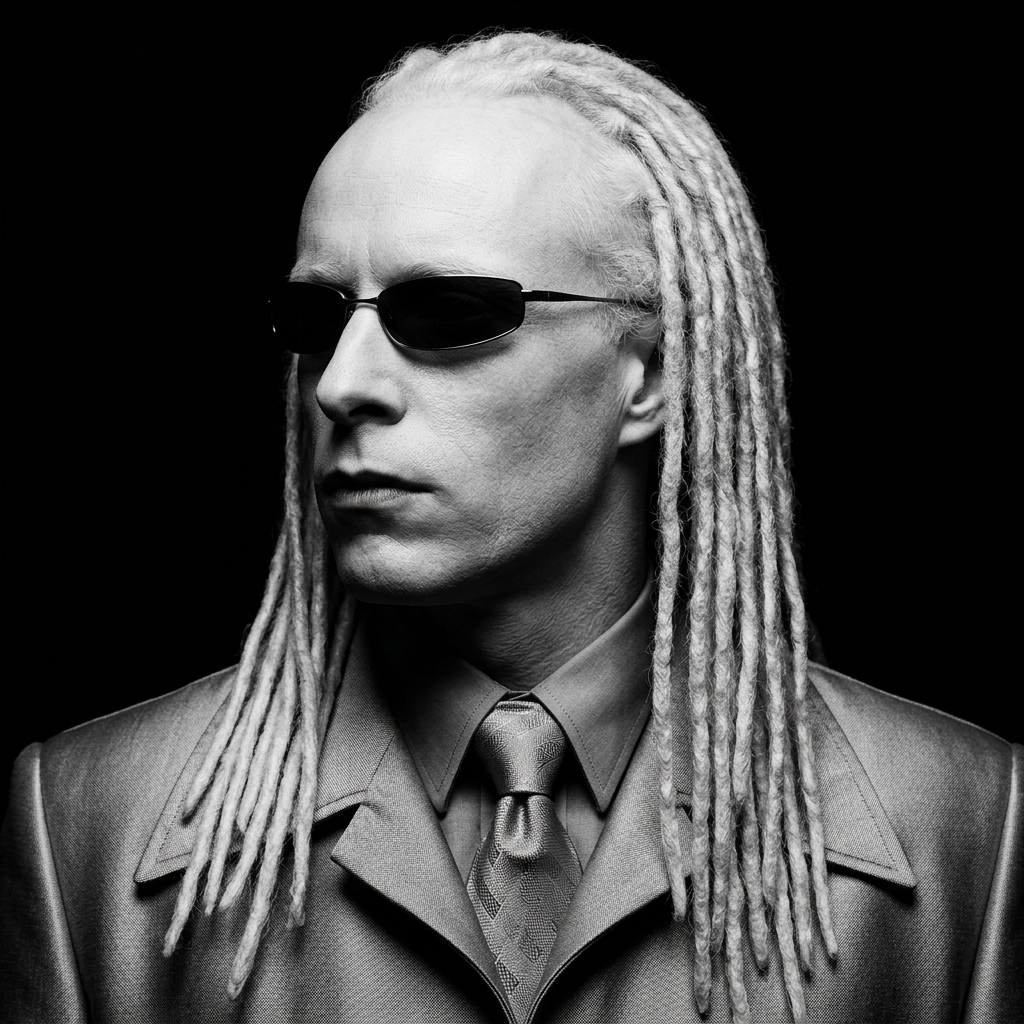
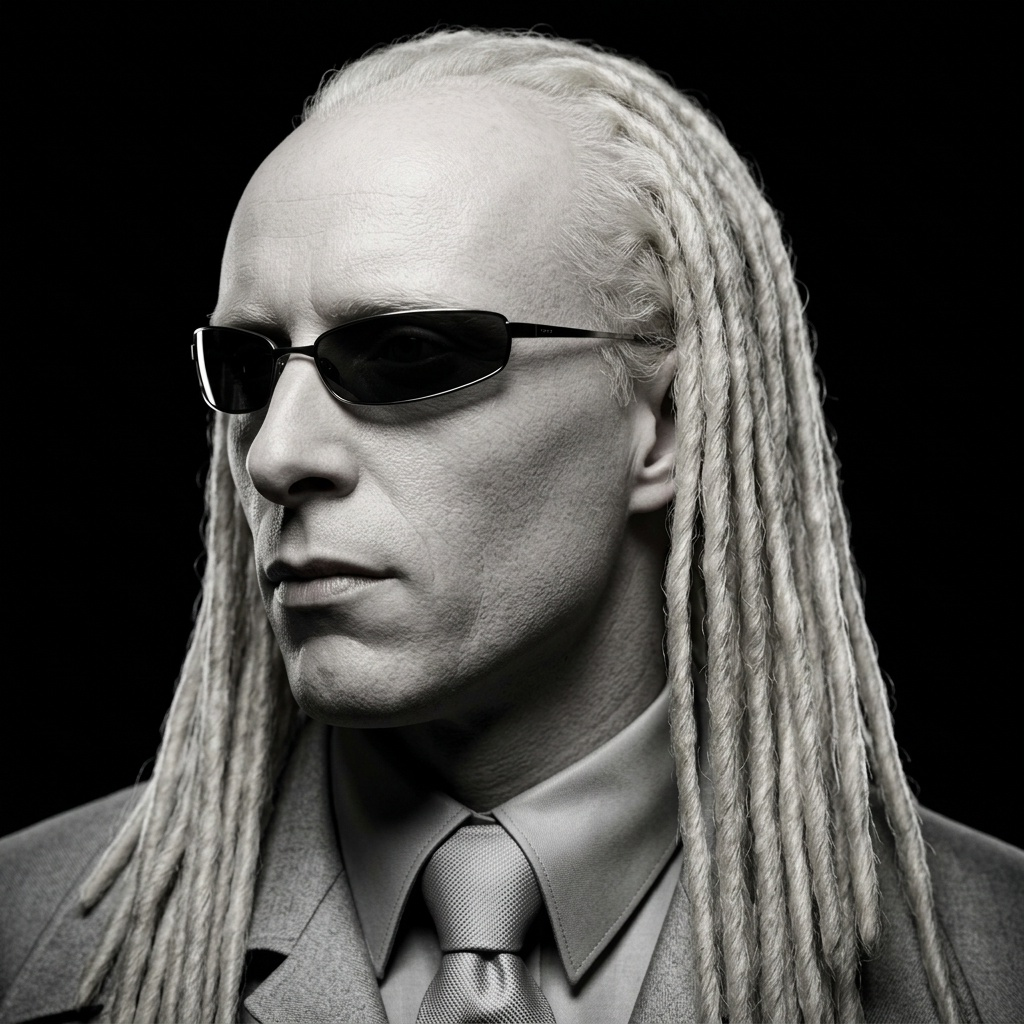
Auto-deploy: Preparando para producción en VPS

diff --git a/src/app/inframundo/page.tsx b/src/app/inframundo/page.tsx
@@ -173,43 +173,57 @@ export default function InframundoPage() {
           {VILLANOS.map((v) => {
             const isLeft = v.side === "left";
 
-            // Componente Lottie
+            // Componente Lottie (con contención de desborde y escala adecuada)
             const lottieNode = (
               <div
                 key="lottie"
                 style={{
-                  width: "105px",
-                  height: "105px",
+                  width: "90px",
+                  height: "90px",
+                  minWidth: "90px",
                   flexShrink: 0,
                   display: "flex",
                   alignItems: "center",
                   justifyContent: "center",
-                  background: "rgba(0, 20, 50, 0.4)",
-                  borderRadius: "10px",
+                  background: "rgba(0, 20, 50, 0.45)",
+                  borderRadius: "12px",
                   padding: "6px",
                   border: `1px solid ${v.color}22`,
+                  overflow: "hidden",
+                  position: "relative",
                 }}
               >
-                <div style={{ width: "100%", height: "100%" }}>
+                <div style={{
+                  width: "100%",
+                  height: "100%",
+                  transform: v.id === "whatsapp" ? "scale(0.82)" : "scale(1)",
+                  display: "flex",
+                  alignItems: "center",
+                  justifyContent: "center",
+                }}>
                   <VibeLottie url={v.lottie} />
                 </div>
               </div>
             );
 
-            // Componente Avatar del Villano
+            // Componente Avatar del Villano (CIRCULAR como los Awakened Heroes)
             const avatarNode = (
               <div
                 key="avatar"
                 style={{
-                  width: "105px",
-                  height: "105px",
+                  width: "82px",
+                  height: "82px",
+                  minWidth: "82px",
                   flexShrink: 0,
-                  borderRadius: "10px",
+                  borderRadius: "50%",
                   overflow: "hidden",
-                  border: `2px solid ${v.color}88`,
-                  boxShadow: `0 0 25px ${v.color}44, inset 0 0 15px rgba(0,0,0,0.8)`,
+                  border: `2px solid ${v.color}`,
+                  boxShadow: `0 0 20px ${v.color}66, inset 0 0 10px rgba(0,0,0,0.8)`,
                   position: "relative",
                   background: "#000",
+                  display: "flex",
+                  alignItems: "center",
+                  justifyContent: "center",
                 }}
               >
                 <img
@@ -221,6 +235,7 @@ export default function InframundoPage() {
                     objectFit: "cover",
                     display: "block",
                     filter: "contrast(1.05)",
+                    transition: "transform 0.3s ease",
                   }}
                 />
               </div>
@@ -289,6 +304,7 @@ export default function InframundoPage() {
                   gap: "1.2rem",
                   transition: "border-color 0.3s ease, box-shadow 0.3s ease, transform 0.3s ease",
                   cursor: "default",
+                  overflow: "hidden",
                 }}
                 onMouseEnter={e => {
                   const el = e.currentTarget as HTMLDivElement;
